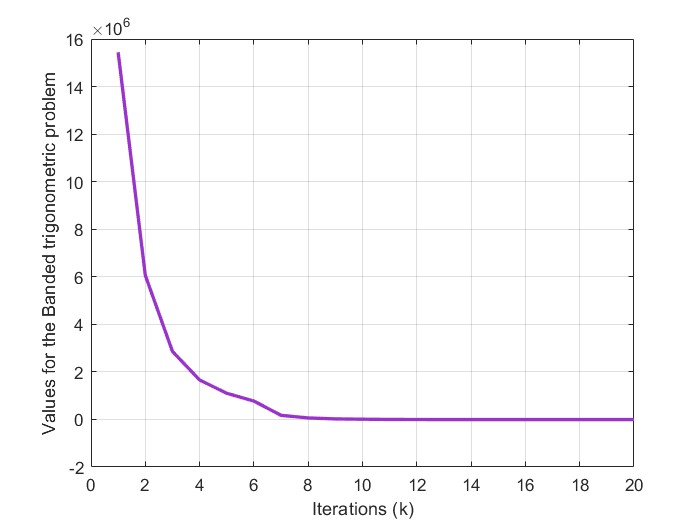
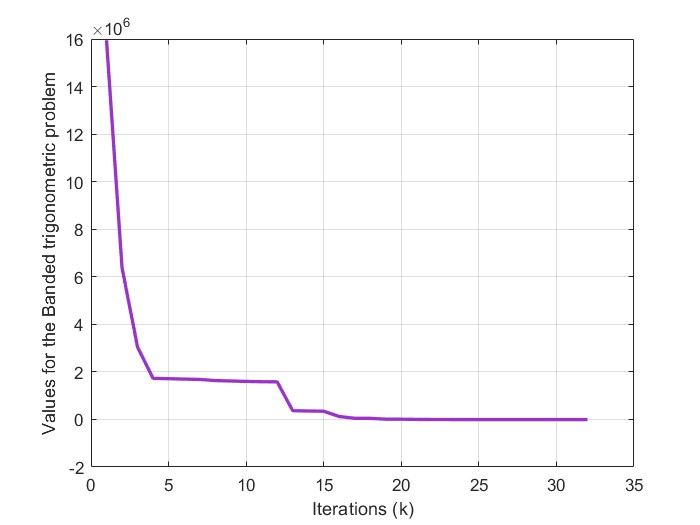
bho

diff --git a/punto_3.m b/punto_3.m
@@ -103,9 +103,26 @@ type_tao = 'Cholesky';
 
 % calling the method:
 
-%result_first_function = 1000*ones(10,1);
-%result_second_function = 1000*ones(10,1);
+result_first_function = 1000*ones(10,1);
+result_second_function = 1000*ones(10,1);
 result_third_function = 1000*ones(10,1);
+
+time_1 = zeros(10,1);
+time_2 = zeros(10,1);
+time_3 = zeros(10,1);
+
+iteration_1 = zeros(10,1);
+iteration_2 = zeros(10,1);
+iteration_3 = zeros(10,1);
+
+number_tao_1 = zeros(10,1);
+number_tao_2 = zeros(10,1);
+number_tao_3 = zeros(10,1);
+
+conv_rate_1 = zeros(10,1);
+conv_rate_2 = zeros(10,1);
+conv_rate_3 = zeros(10,1);
+
 
 % for i = 1:1:10
 % 
@@ -122,9 +139,12 @@ result_third_function = 1000*ones(10,1);
 % 
 %     disp('**** MODIFIED NEWTON METHOD : RESULTS *****')
 %     disp('************************************')
-%     disp(['N. tao used: ', num2str(nnz(taoseq1))])
+%     disp(['N. tao used: ', num2str(length(taoseq1.*ones(length(taoseq1),1)))])
 %     disp(['f(xk): ', num2str(f1k)])
+%     disp(['gradfk_norm: ', num2str(gradf1k_norm]))
+
 %     disp(['N. of Iterations: ', num2str(k1),'/',num2str(kmax), ';'])
+%     disp(['Rate of convergence: ', num2str(convergence_rate(x1seq)), ';'])
 %     disp('************************************')
 % 
 %     if k1 == kmax
@@ -137,6 +157,10 @@ result_third_function = 1000*ones(10,1);
 %         disp('************************************')
 %     end
 %     disp(' ')
+%    time_1(i) = t;
+%    iteration_1(i) = k1;
+%    number_tao_1(i) = nnz(taoseq1);
+%    conv_rate_1(i) = convergence_rate(x1seq);
 % 
 % end
 % 
@@ -152,8 +176,20 @@ result_third_function = 1000*ones(10,1);
 % xlabel('Iterations (k)');
 % ylabel('Tao values for the Rosenbrock function'); 
 
+% disp(' ')
+% disp(' ')
+% disp(' ')
+% disp('******************************************')
+% 
+% disp('**** RESULTS FOR THE FIRST FUNCTION *****')
+% disp(['N. of success: ', num2str(sum(result_first_function))])
+% disp(['Mean N. of Iterations (in case of success): ', num2str(round(sum(result_first_function.*iteration_1)/sum(result_first_function))),'/',num2str(kmax), ';'])
+% disp(['Mean N. tao used (in case of success): ', num2str(round(sum(result_first_function.*number_tao_1)/sum(result_first_function)))])
+% disp(['Mean convergence rate (in case of success): ', num2str(sum(result_first_function.*conv_rate_1)/sum(result_first_function))])
+% disp('******************************************')
 
-% for i = 9:1:9
+
+% for i = 1:1:10
 % 
 %     disp(['**** MODIFIED NEWTON METHOD FOR THE SECOND FUNCTION, POINT ', num2str(i), ': STARTED *****']);
 %     tic;
@@ -168,9 +204,12 @@ result_third_function = 1000*ones(10,1);
 % 
 %     disp('**** MODIFIED NEWTON METHOD : RESULTS *****')
 %     disp('************************************')
-%     disp(['N. tao used: ', num2str(nnz(taoseq2))])
+%     disp(['N. tao used: ', num2str(length(taoseq2.*ones(length(taoseq2),1)))])
 %     disp(['f(xk): ', num2str(f2k)])
+%     disp(['gradfk_norm: ', num2str(gradf2k_norm)])
+
 %     disp(['N. of Iterations: ', num2str(k2),'/',num2str(kmax), ';'])
+%     disp(['Rate of convergence: ', num2str(convergence_rate(x2seq)), ';'])
 %     disp('************************************')
 % 
 %     if (k2 == kmax || f2k > 10^-1)
@@ -183,6 +222,10 @@ result_third_function = 1000*ones(10,1);
 %         disp('************************************')
 %     end
 %     disp(' ')
+%    time_2(i) = t;
+%    iteration_2(i) = k2;
+%    number_tao_2(i) = nnz(taoseq2);
+%    conv_rate_2(i) = convergence_rate(x2seq);
 % 
 % end
 % 
@@ -197,6 +240,18 @@ result_third_function = 1000*ones(10,1);
 % grid on;
 % xlabel('Iterations (k)');
 % ylabel('Tao values for the Broyden tridiagonal function'); 
+
+% disp(' ')
+% disp(' ')
+% disp(' ')
+% disp('******************************************')
+% 
+% disp('**** RESULTS FOR THE SECOND FUNCTION *****')
+% disp(['N. of success: ', num2str(sum(result_second_function))])
+% disp(['Mean N. of Iterations (in case of success): ', num2str(round(sum(result_second_function.*iteration_2)/sum(result_second_function))),'/',num2str(kmax), ';'])
+% disp(['Mean N. tao used (in case of success): ', num2str(round(sum(result_second_function.*number_tao_2)/sum(result_second_function)))])
+% disp(['Mean convergence rate (in case of success): ', num2str(sum(result_second_function.*conv_rate_2)/sum(result_second_function))])
+% disp('******************************************')
 
 for i = 1:1:10
 
@@ -213,9 +268,11 @@ for i = 1:1:10
 
     disp('**** MODIFIED NEWTON METHOD : RESULTS *****')
     disp('************************************')
-    disp(['N. tao used: ', num2str(nnz(taoseq3))])
+    disp(['N. tao used: ', num2str(length(taoseq3.*ones(length(taoseq3),1)))])
     disp(['f(xk): ', num2str(f3k)])
+    disp(['gradfk_norm: ', num2str(gradf3k_norm)])
     disp(['N. of Iterations: ', num2str(k3),'/',num2str(kmax), ';'])
+    disp(['Rate of convergence: ', num2str(convergence_rate(x3seq)), ';'])
     disp('************************************')
 
     if k3 == kmax
@@ -229,6 +286,11 @@ for i = 1:1:10
     end
     disp(' ')
 
+    time_3(i) = t;
+    iteration_3(i) = k3;
+    number_tao_3(i) = nnz(taoseq3);
+    conv_rate_3(i) = convergence_rate(x3seq);
+ 
 end
 
 figure; 
@@ -246,4 +308,14 @@ grid on;
 xlabel('Iterations (k)');
 ylabel('Tao values for the Banded trigonometric problem'); 
 
+disp(' ')
+disp(' ')
+disp(' ')
+disp('******************************************')
 
+disp('**** RESULTS FOR THE THIRD FUNCTION *****')
+disp(['N. of success: ', num2str(sum(result_third_function))])
+disp(['Mean N. of Iterations (in case of success): ', num2str(round(sum(result_third_function.*iteration_3)/sum(result_third_function))),'/',num2str(kmax), ';'])
+disp(['Mean N. tao used (in case of success): ', num2str(round(sum(result_third_function.*number_tao_3)/sum(result_third_function)))])
+disp(['Mean convergence rate (in case of success): ', num2str(sum(result_third_function.*conv_rate_3)/sum(result_third_function))])
+disp('******************************************')

diff --git a/CholeskyAddIdentity.m b/CholeskyAddIdentity.m
@@ -20,17 +20,14 @@ function [tao,R] = CholeskyAddIdentity(Hessian)
     % computing A
 
     k = 1;
-    while(k > 0)
-        try
-            R = chol(Hessian + tao *diag(ones(n,1)));
-            k = -1;
-        catch
-            tao = max([2*tao;Beta]);
-        end
+    flag = 1;       %initial pivoting 
+    while(k < kmax && flag > 0 )    
 
-        if k > kmax
-            k = -1;
-        end
+        [R,flag] = chol(Hessian + tao *speye(n));   % flag is 0 if the matrix is positive definite
+
+        k = k + 1;
+
+        tao = max([2*tao;Beta]);
     end
 
 

diff --git a/convergence_rate.m b/convergence_rate.m
@@ -1,0 +1,20 @@
+function p = convergence_rate(xseq)
+
+    % this function evaluate the rate fo convergence
+
+    if (size(xseq,2)>2)
+        
+        upper = xseq(:,end) - xseq(:,end-1);
+        lower = xseq(:,end-1) - xseq(:,end-2);
+
+        p = log(sum(upper.^2))/log(sum(lower.^2));
+
+        %p = log(norm(upper))/log(norm(lower));
+
+        % we didn't compute the norm becouse computing the sq is costly
+
+    else
+        p = 0;
+    end
+
+end
